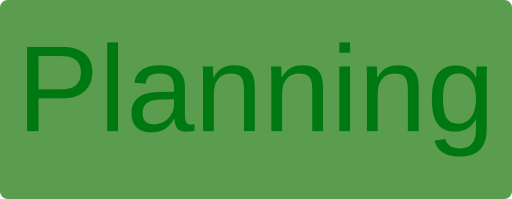
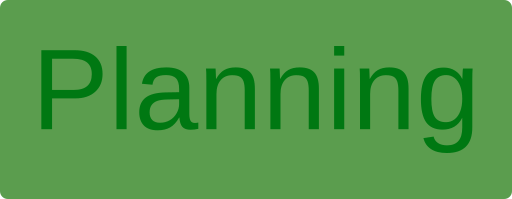
GameState is always drawn in the lower right corner

diff --git a/core/src/com/android/game/UserInterface.java b/core/src/com/android/game/UserInterface.java
@@ -11,16 +11,25 @@ public class UserInterface implements Drawable {
     String planID = "planning";
     String actionID = "action";
     Sprite sprite;
-    final float XPOS = 0;
-    final float YPOS = 0;
+    float xPos = 0;
+    float yPos = 0;
 
-    public UserInterface(GameState state) {
+    public UserInterface(GameState state, AssetHandler assHand, 
+            float screenWidth, float screenHeight) {
         this.state = state;
+        // xPos = screenWidth - 100;
+        sprite = assHand.getSprite(planID);
+        yPos = screenHeight - sprite.getHeight();
     }
 
     // Returns true if input is processed
     public boolean handleInput(Vector2 pos) {
         return false;
+    }
+
+    public void resize(float screenWidth, float screenHeight) {
+        // xPos = screenWidth - 100;
+        yPos = screenHeight - sprite.getHeight();
     }
 
     @Override
@@ -30,9 +39,8 @@ public class UserInterface implements Drawable {
         } else {
             sprite = assHand.getSprite(actionID);
         }
-        // sprite.setRotation();
         sprite.flip(false, true);
-        sprite.setPosition(XPOS, YPOS);
+        sprite.setPosition(xPos, yPos);
         sprite.draw(batch);
     }
 

diff --git a/core/src/com/android/game/GdxGame.java b/core/src/com/android/game/GdxGame.java
@@ -32,8 +32,6 @@ public class GdxGame implements ApplicationListener {
         gameState = new GameState();
         assHand = new AssetHandler();
 
-        userInterface = new UserInterface(gameState);
-
         player = new Player(assHand);
         ai = new ArtificialIntelligence(assHand);
         logic = new GameLogic(visibleObjects, gameState, player, ai);
@@ -44,6 +42,8 @@ public class GdxGame implements ApplicationListener {
         float h = Gdx.graphics.getHeight();
         camera = new OrthographicCamera(w, h);
         camera.setToOrtho(true);
+
+        userInterface = new UserInterface(gameState, assHand, w, h);
 
         input = new InputHandler(player, camera, gameState);
         Gdx.input.setInputProcessor(input);
@@ -90,6 +90,8 @@ public class GdxGame implements ApplicationListener {
         camera.setToOrtho(true);
         camera.viewportWidth = width;
         camera.viewportHeight = height;
+
+        userInterface.resize(width, height);
     }
 
     @Override
